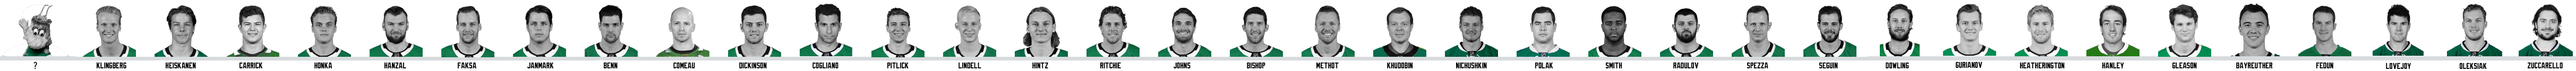
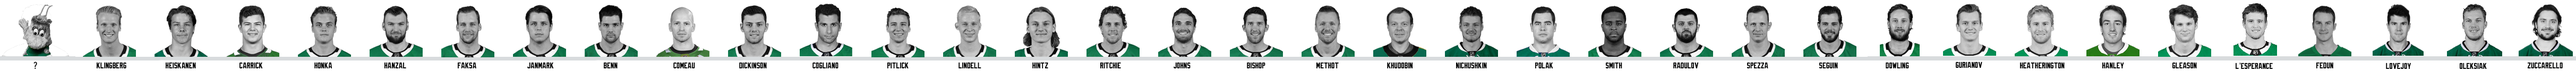
Fixing Players Sprite
The end of the spritesheet has gotten all out of whack. Hopefully this
puts everything back in order.

Changed region(s): [[0.8404, 0.0593, 0.9027, 0.8], [0.8716, 0.8593, 0.9027, 0.9778]]

diff --git a/dallasstars.css b/dallasstars.css
@@ -2089,7 +2089,8 @@ a[href*="#lhtlight"] { top: 35; right: 25px; transition: all 200ms ease; }
 .md  a[href$="48"] { background-position-x: calc(-135px * 28); }
 .md  a[href$="39"] { background-position-x: calc(-135px * 29); }
 .md  a[href$="63"] { background-position-x: calc(-135px * 30); }
-.md  a[href$="44"] { background-position-x: calc(-135px * 31); }
+.md  a[href$="38"] { background-position-x: calc(-135px * 31); }
+.md  a[href$="42"] { background-position-x: calc(-135px * 32); }
 .md  a[href$="21"] { background-position-x: calc(-135px * 33); }
 .md  a[href$="02"] { background-position-x: calc(-135px * 34); }
 .md  a[href$="36"] { background-position-x: calc(-135px * 35); }
@@ -2396,10 +2397,11 @@ a[href*="#lhtlight"] { top: 35; right: 25px; transition: all 200ms ease; }
 .side .md  a[href$="48"] { background-position: -2530px 0; }
 .side .md  a[href$="39"] { background-position: -2620px 0; }
 .side .md  a[href$="63"] { background-position: -2710px 0; }
-.side .md  a[href$="44"] { background-position: -2800px 0; }
-.side .md  a[href$="21"] { background-position: -2890px 0; }
-.side .md  a[href$="02"] { background-position: -2975px 0; }
-.side .md  a[href$="36"] { background-position: -3060px 0; }
+.side .md  a[href$="38"] { background-position: -2800px 0; }
+.side .md  a[href$="42"] { background-position: -2890px 0; }
+.side .md  a[href$="21"] { background-position: -2975px 0; }
+.side .md  a[href$="02"] { background-position: -3060px 0; }
+.side .md  a[href$="36"] { background-position: -3150px 0; }
 
 /* Sidebar Menu Icons */
 
